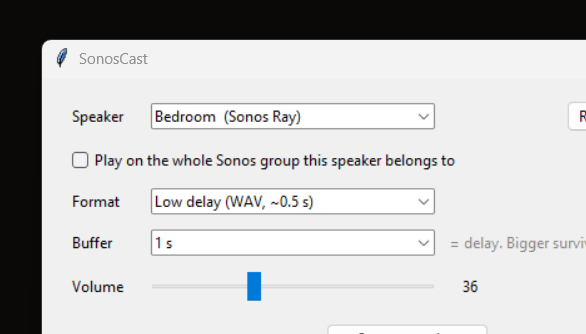
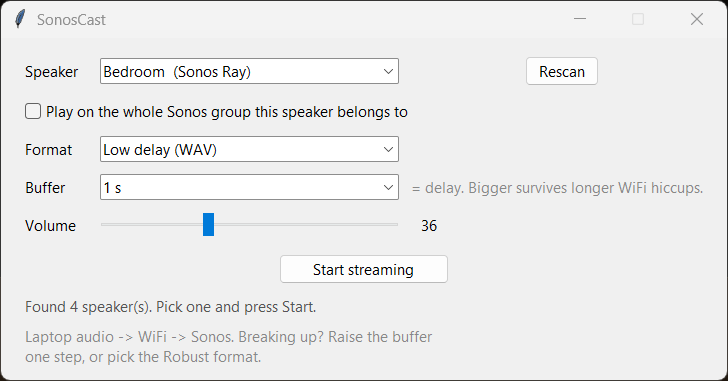
Fix WAV format label and retake DPI-aware screenshot

diff --git a/sonoscast.py b/sonoscast.py
@@ -55,7 +55,7 @@ class WavCodec:
     """Raw 16-bit PCM in a WAV wrapper with a 'huge file' header. No encoder delay."""
 
     name = "wav"
-    label = "Low delay (WAV, ~0.5 s)"
+    label = "Low delay (WAV)"
     path = "/stream.wav"
     content_type = "audio/wav"
     uri_scheme = "http"
